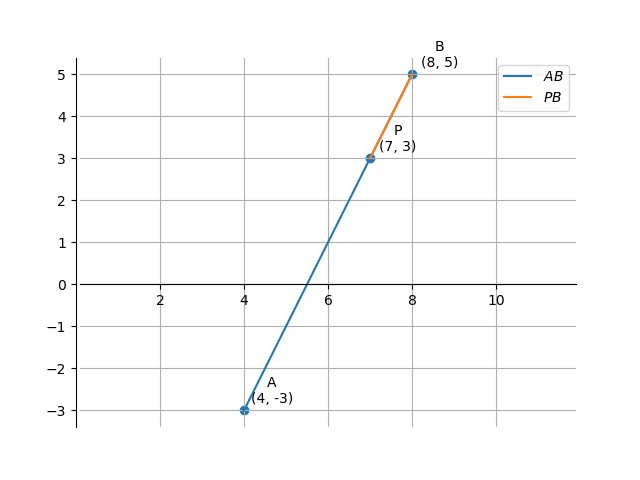
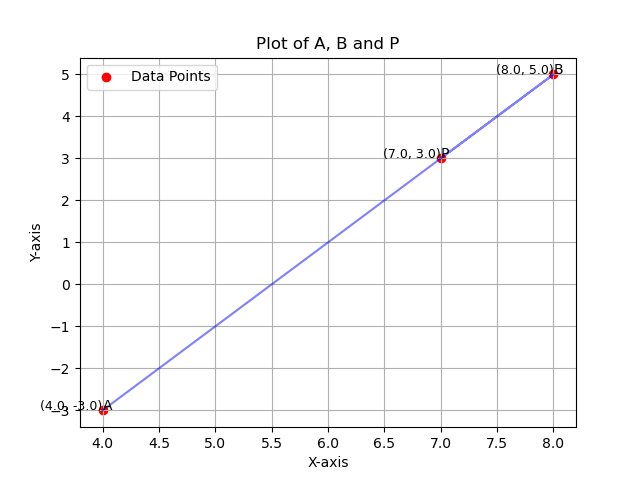
2nd Assignment

diff --git a/Assignment2/Codes/plot.py b/Assignment2/Codes/plot.py
@@ -1,0 +1,38 @@
+import matplotlib.pyplot as plt
+
+# Read the data from the file
+x = []
+y = []
+labels = []
+text=["A","B","P"]
+
+with open('data.txt', 'r') as file:
+    for line in file:
+        values = line.split()
+        x_val = float(values[0])
+        y_val = float(values[1])
+        x.append(x_val)
+        y.append(y_val)
+        labels.append(f'({x_val}, {y_val})')
+
+# Plot the data
+plt.scatter(x, y, color='red', label='Data Points')
+plt.plot(x, y, linestyle='-', color='blue', alpha=0.5)  # Optional line connecting points
+
+# Label the coordinates
+for i, label in enumerate(labels):
+    plt.text(x[i], y[i], label, fontsize=9, ha='right')
+    plt.annotate(text[i],(x[i],y[i]))
+    
+
+# Add titles and labels
+
+plt.title('Plot of A, B and P')
+plt.xlabel('X-axis')
+plt.ylabel('Y-axis')
+plt.legend()
+
+# Display the plot
+plt.grid(True)
+plt.savefig("Fig1.png")
+

diff --git a/Assignment2/Codes/points.c b/Assignment2/Codes/points.c
@@ -1,0 +1,21 @@
+#include <stdio.h>
+#include <stdlib.h>
+
+int main() {
+    FILE *file = fopen("data.txt", "w");
+    if (file == NULL) {
+        perror("Unable to open file");
+        return 1;
+    }
+
+    // Generate some example data points
+   
+        fprintf(file, "%d %d\n", 4,-3);
+	fprintf(file, "%d %d\n", 8,5); 
+	fprintf(file, "%d %d\n", 7,3);
+    
+
+    fclose(file);
+    return 0;
+}
+
